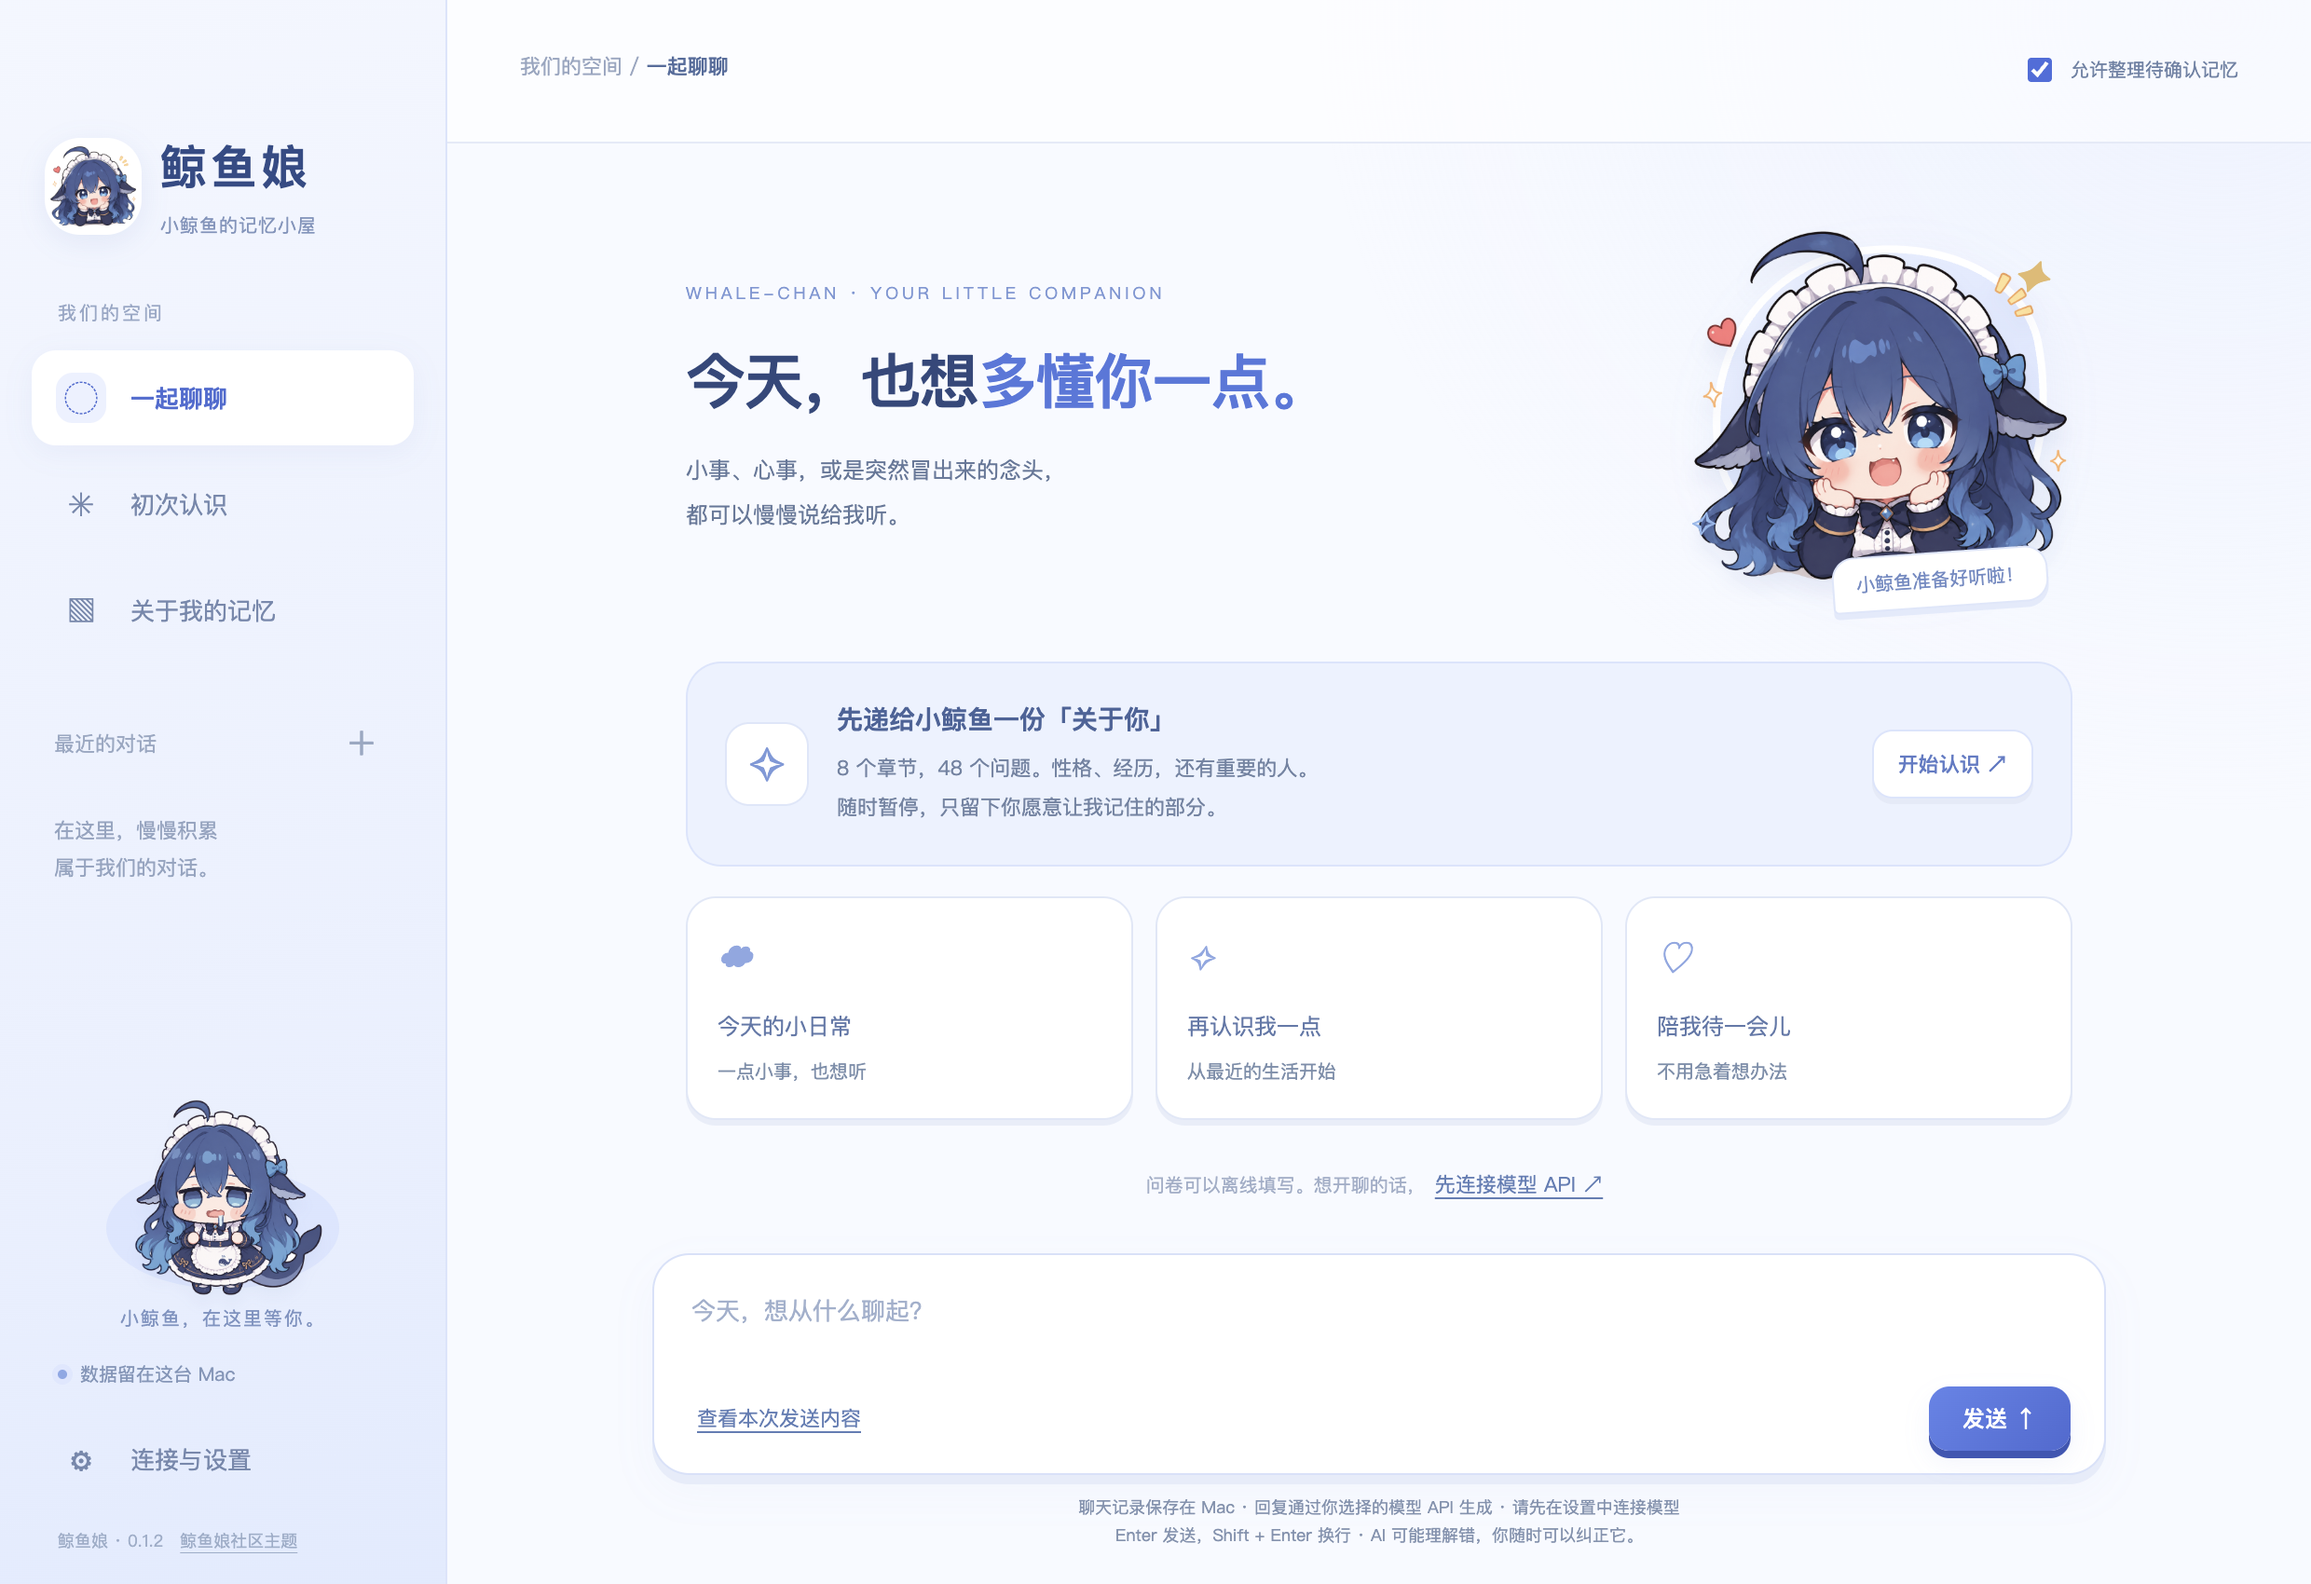
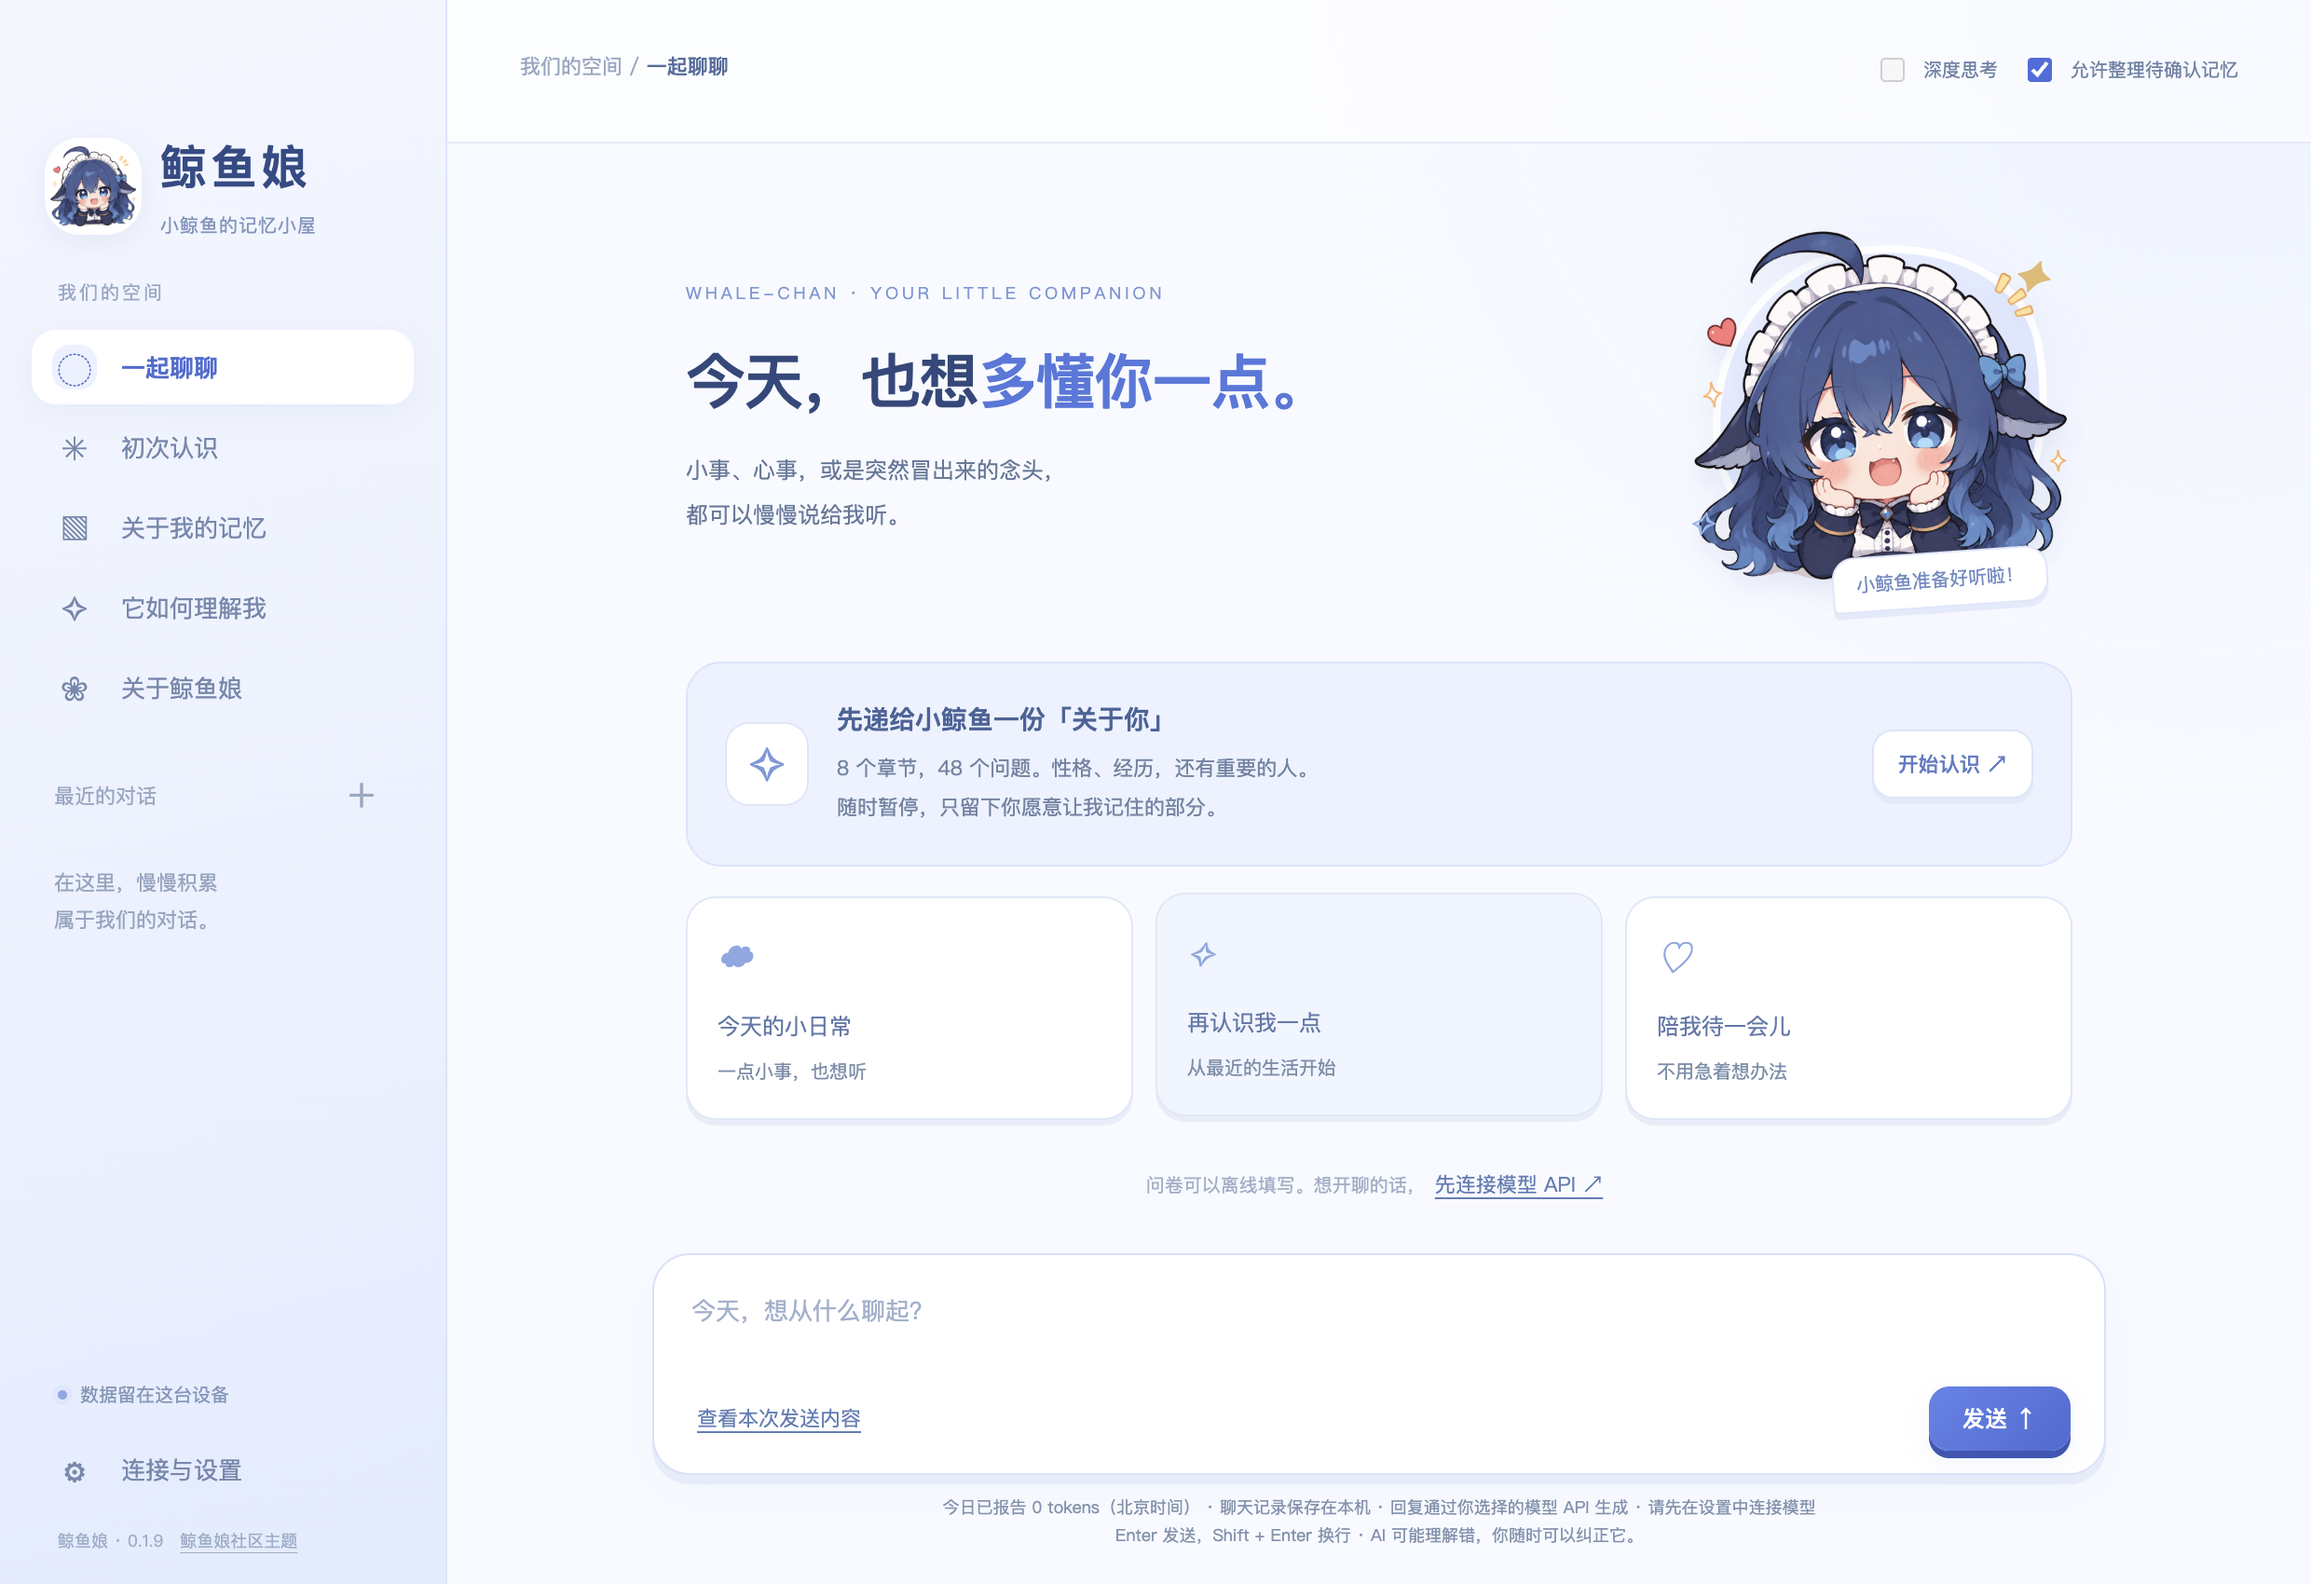
Document personality growth validation and refreshed sidebar

diff --git a/README.md b/README.md
@@ -1,6 +1,6 @@
 # 鲸鱼娘 · DeepSeek 鲸鱼娘主题 AI 聊天伙伴
 
-一个以“逐渐认识你”为核心的桌面 AI 聊天软件，支持 macOS 和 Windows。包含 48 题初次问卷、本地草稿、用户确认的长期记忆、模型 API 聊天与待确认记忆审核。没有工具执行或 Agent 功能。
+一个以“逐渐认识你”为核心的桌面 AI 聊天软件，支持 macOS 和 Windows。包含 48 题初次问卷、本地草稿、用户确认的长期记忆、持续用户画像、鲸鱼娘自身的相处风格成长、流式 API 聊天和 token 用量统计。没有工具执行或 Agent 功能。
 
 完整设计见 [DESIGN.md](./DESIGN.md)。
 
@@ -96,6 +96,8 @@ token 用量直接读取 API 的 usage：每条回复显示输入、输出和总
 总结 API 输入包含最多 60 条已确认记忆（每条最多 2000 字）、已审核画像，以及人格成长所需的当前相处方式和明确反馈；不发送问卷草稿、原始聊天、待确认记忆或思考文字。发送范围可预览；token 单独归入“画像与成长”，包含在今日及累计用量中。画像和成长记录保存在本机。
 
 ### 它也会逐步形成相处风格
+
+![关于鲸鱼娘：人格成长与相处反馈](docs/persona.png)
 
 “关于鲸鱼娘”展示它的稳定底色、六项表达习惯和已确认的相处特点。它根据已确认记忆、已审核画像和你在此处填写的明确反馈，在空闲时与画像共用一次总结调用；不在每句话结束时追加请求。暂停用户画像和暂停人格成长分别控制，手动生成仍可使用。
 

diff --git a/VALIDATION.md b/VALIDATION.md
@@ -4,6 +4,8 @@
 
 49 项单元测试通过。新增覆盖自动微调上限和幅度、范围与锁定、重大变化审核与提示隔离、明确反馈、错误后停止重复调用、暂停时手动生成、保留待审核用户画像、历史回退及撤销来源后的清理。Intel Mac 源码桌面测试通过反馈保存后不立即调用、共用一次总结、自动变化、编辑确认称呼、否定建议、锁定及回退、未保存输入保留、暂停时手动生成、用量记录、反馈撤销和重启保持。使用独立临时数据和本地模拟 API，未使用用户真实密钥，未验证真实模型的长期适应质量。
 
+包含侧栏精简的最终 Intel Mac 安装包通过完整桌面流程测试及临时签名校验；已安装到本机。安装前后 11 个本地文件摘要一致，聊天、记忆和加密密钥保持不变，旧安装与构建副本移入废纸篓。侧栏移除底部装饰大图，压缩导航留白，会话列表独立滚动；已截图核对普通窗口与 900×650 小窗口。
+
 ## v0.1.3 原生跨平台验证
 
 - 成功工作流：https://github.com/yzd6552-commits/whale-chan-companion/actions/runs/38594433756
